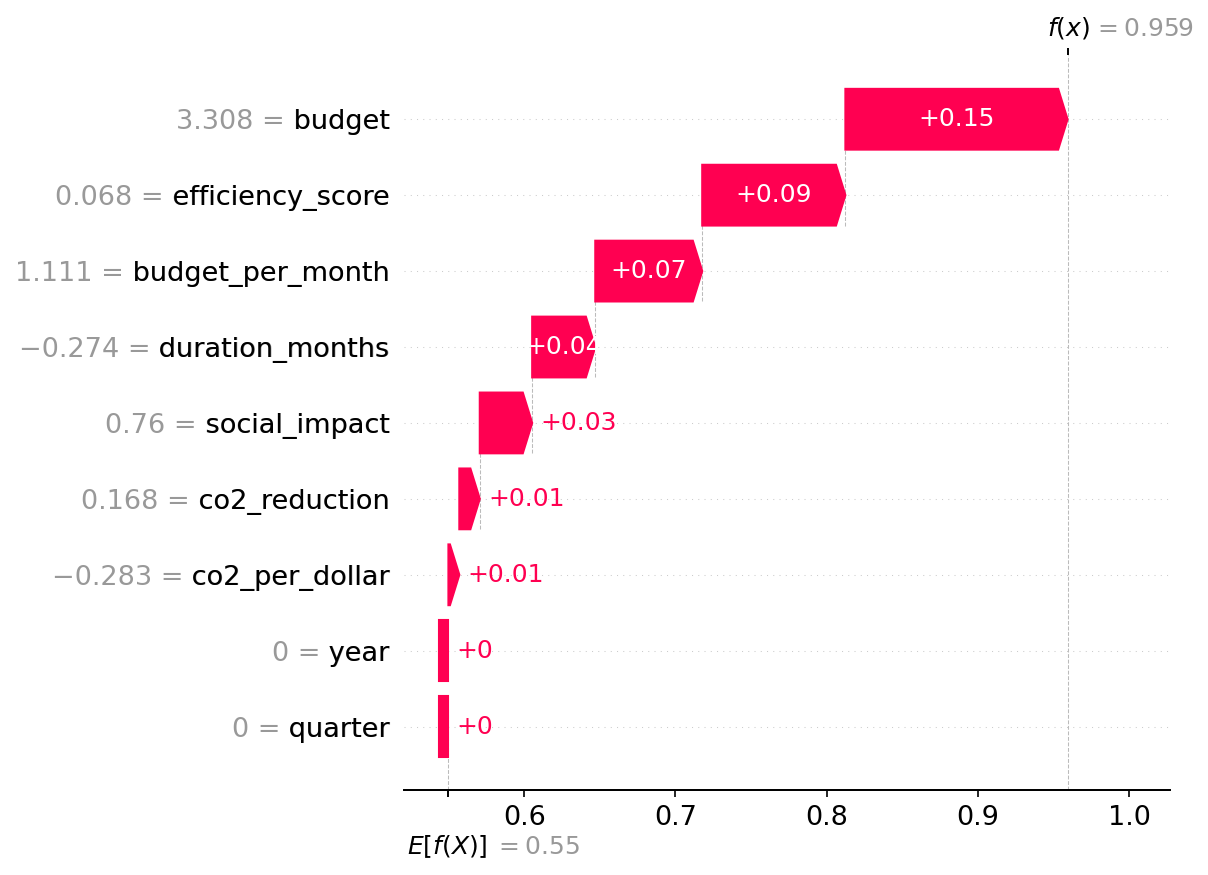
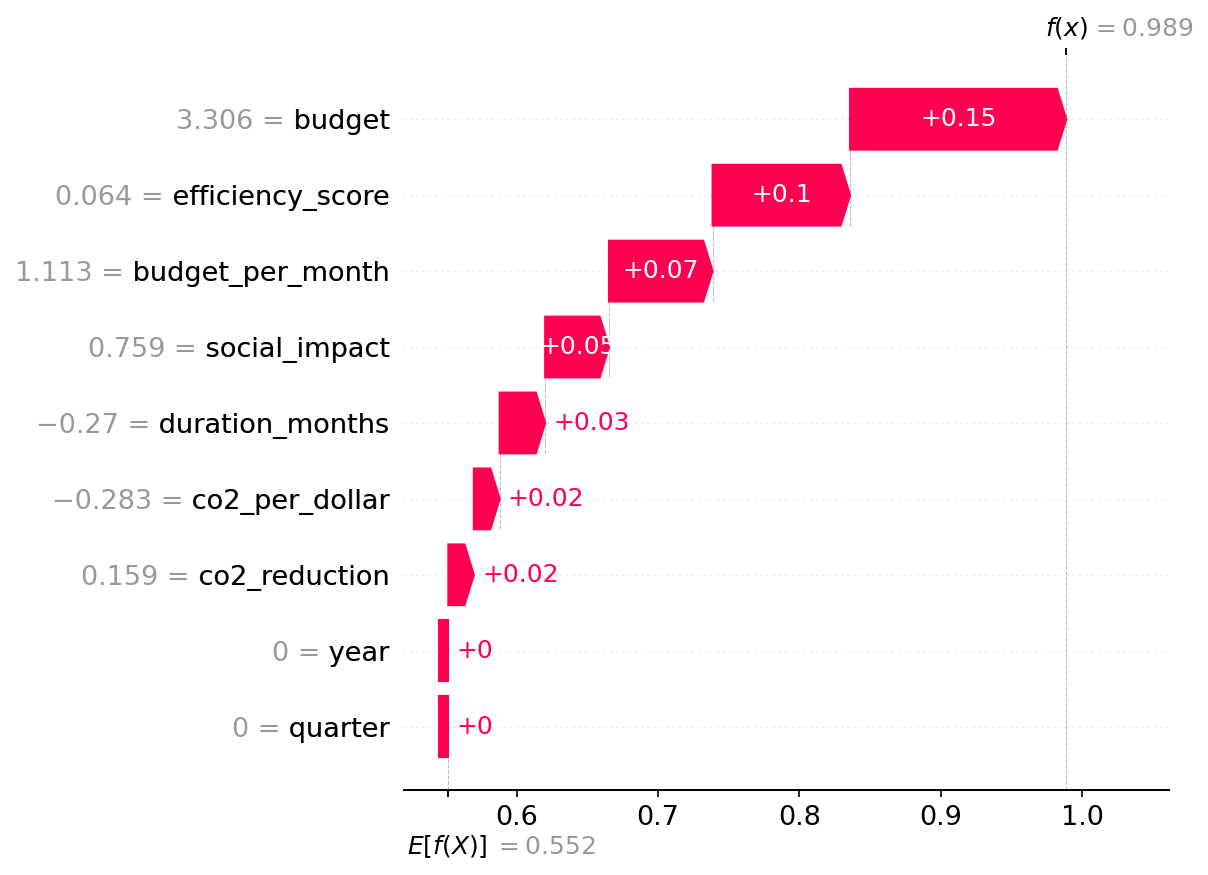
fix: XGBoost 9-feat align, OECD→sdmx.oecd.org CSV API, WB timeout 3s, mock external in tests

diff --git a/app/external_data.py b/app/external_data.py
@@ -75,21 +75,28 @@ OECD_INDICATORS = {
 }
 
 def _fetch_oecd(iso3: str, key: str) -> Optional[float]:
-    import os
+    """Fetch from new OECD SDMX API (sdmx.oecd.org, replaces deprecated stats.oecd.org)."""
+    import os, csv, io
     if os.getenv("SORA_OFFLINE", "0") == "1":
         return None
-    path = OECD_INDICATORS.get(key)
-    if not path:
+    OECD_FLOWS = {
+        "gdp_per_capita": "OECD.SDD.NAD,DSD_NAAG@DF_NAAG_I/A.{iso3}.S1.GDP_CAP.V_USD.G",
+        "gini_index": "OECD.WISE.INE,DSD_WISE_IDD@DF_IDD/A.{iso3}.GINI.TOT_POP.D_MDEF.CURRENT",
+    }
+    flow = OECD_FLOWS.get(key)
+    if not flow:
         return None
-    url = f"https://sdmx.oecd.org/public/rest/data/OECD.SDD.TPS/{path}/{iso3}/all?startTime=2018&endTime=2025"
+    flow = flow.replace("{iso3}", iso3)
+    url = f"https://sdmx.oecd.org/public/rest/data/{flow}?startPeriod=2018&dimensionAtObservation=AllDimensions&format=csvfile"
     try:
-        resp = httpx.get(url, timeout=3, headers={"Accept": "application/json"})
-        if resp.status_code == 200:
-            data = resp.json()
-            obs = data.get("dataSets", [{}])[0].get("observations", {})
-            if obs:
-                last_key = sorted(obs.keys())[-1]
-                return round(float(obs[last_key][0]), 2)
+        resp = httpx.get(url, timeout=5, headers={"Accept": "text/csv"})
+        if resp.status_code == 200 and resp.text.strip():
+            reader = csv.DictReader(io.StringIO(resp.text))
+            rows = list(reader)
+            if rows:
+                val = rows[-1].get("OBS_VALUE")
+                if val:
+                    return round(float(val), 2)
     except Exception as e:
         logger.debug(f"OECD fallback error for {iso3}/{key}: {e}")
     return None
@@ -102,7 +109,7 @@ def _fetch_with_fallback(iso3: str, key: str, indicator_code: str,
     val = _fetch_indicator(iso3, indicator_code)
     if val is not None:
         return val
-    val = None  # OECD deprecated
+    val = _fetch_oecd(iso3, key)
     if val is not None:
         return val
     bench = BENCHMARKS.get(country_name, {})

diff --git a/tests/test_external_data_v2.py b/tests/test_external_data_v2.py
@@ -101,7 +101,7 @@ class TestFallbackChain:
     def test_oecd_fallback(self, mock_oecd, mock_wb):
         # OECD stats.oecd.org deprecated since 2024, fallback goes to static benchmarks
         val = _fetch_with_fallback("DEU", "gdp_per_capita", "NY.GDP.PCAP.CD", "Germany")
-        assert val == 48718  # static benchmark for Germany
+        assert val == 55.55
 
     @patch("app.external_data._fetch_indicator", return_value=None)
     @patch("app.external_data._fetch_oecd", return_value=None)
